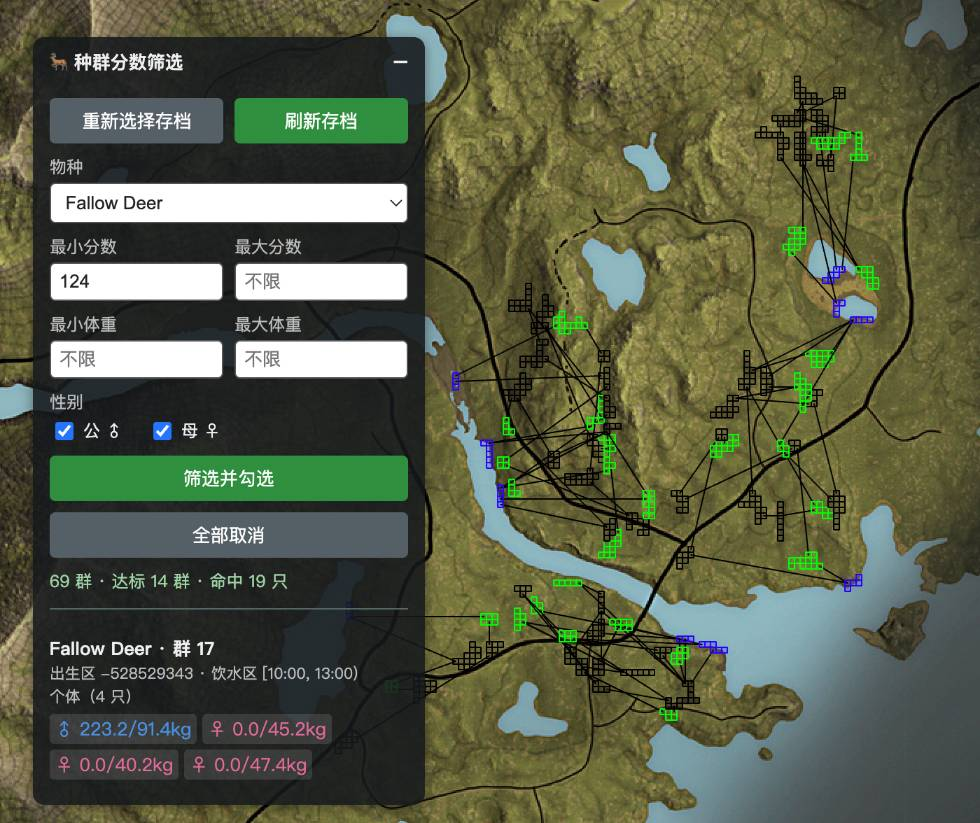
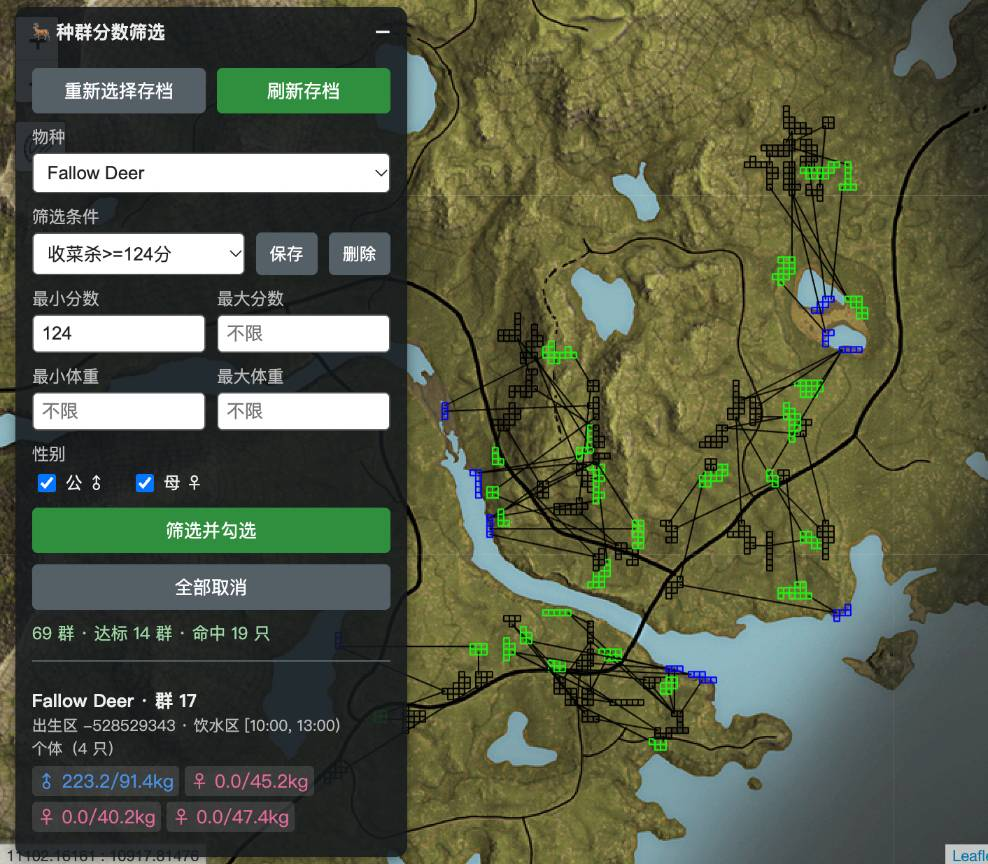
新增筛选条件预设功能

diff --git a/cotw-population-filter.user.js b/cotw-population-filter.user.js
@@ -1,8 +1,8 @@
 // ==UserScript==
 // @name         DECA COTW 地图 · 种群分数筛选
 // @namespace    cotw-kedior
-// @version      1.5.0
-// @description  按物种、分数、体重、性别筛选动物兽群，支持个体分数与手动刷新存档
+// @version      1.6.0
+// @description  按物种、分数、体重、性别筛选动物兽群，支持个体分数、筛选条件预设与手动刷新存档
 // @match        https://mathartbang.com/deca/hp/map.html*
 // @grant        none
 // @run-at       document-idle
@@ -305,6 +305,35 @@
             margin: 0; font-size: 12px; color: #eee;
         }
         #cotw-filter-body .cotw-genders input { width: auto; }
+        #cotw-filter-body .cotw-preset-row { display: flex; gap: 8px; }
+        #cotw-filter-body .cotw-preset-row select { flex: 1; min-width: 0; width: auto; }
+        #cotw-filter-body .cotw-preset-row button {
+            width: auto; flex: none; margin-top: 0; padding: 7px 10px; font-size: 12px;
+        }
+        .cotw-preset-dialog {
+            position: absolute; inset: 0; z-index: 10; box-sizing: border-box;
+            display: flex; align-items: center; justify-content: center; padding: 12px;
+            background: rgba(0, 0, 0, 0.6); border-radius: 8px; user-select: text;
+        }
+        .cotw-preset-dialog[hidden] { display: none; }
+        .cotw-dialog-card {
+            width: 100%; padding: 10px; border: 1px solid #556; border-radius: 6px;
+            background: #1b2026;
+        }
+        .cotw-dialog-title { margin-bottom: 6px; font-weight: 600; }
+        .cotw-dialog-card input {
+            width: 100%; box-sizing: border-box; padding: 5px 6px;
+            border: 1px solid #555; border-radius: 4px; background: #fff; color: #222;
+            font-size: 13px;
+        }
+        .cotw-dialog-error { min-height: 1.2em; margin-top: 4px; font-size: 12px; color: #ff8f8f; }
+        .cotw-dialog-actions { display: flex; gap: 8px; margin-top: 2px; }
+        .cotw-dialog-actions button {
+            flex: 1; width: auto; margin-top: 0; padding: 7px 0; border: 0; border-radius: 4px;
+            background: #2f8f3e; color: #fff; font-size: 13px; cursor: pointer;
+        }
+        .cotw-dialog-actions button.cotw-secondary { background: #555f66; }
+        .cotw-dialog-actions button:hover { filter: brightness(1.12); }
         #cotw-status { margin-top: 8px; font-size: 12px; color: #9fd3a4; min-height: 1.2em; word-break: break-all; }
         #cotw-area-info { margin-top: 10px; padding-top: 8px; border-top: 1px solid #566; }
         #cotw-area-results { max-height: 220px; overflow-y: auto; margin-top: 4px; user-select: text; }
@@ -337,6 +366,12 @@
             </div>
             <label>物种</label>
             <select id="cotw-species"></select>
+            <label>筛选条件</label>
+            <div class="cotw-preset-row">
+                <select id="cotw-preset"></select>
+                <button id="cotw-preset-save" class="cotw-secondary">保存</button>
+                <button id="cotw-preset-delete" class="cotw-secondary">删除</button>
+            </div>
             <div class="cotw-range">
                 <div><label>最小分数</label><input id="cotw-min" type="number" step="0.1" placeholder="不限"></div>
                 <div><label>最大分数</label><input id="cotw-max" type="number" step="0.1" placeholder="不限"></div>
@@ -357,12 +392,31 @@
                 <div id="cotw-area-results"></div>
             </div>
         </div>
+        <div id="cotw-preset-dialog" class="cotw-preset-dialog" hidden>
+            <div class="cotw-dialog-card">
+                <div class="cotw-dialog-title">保存筛选条件</div>
+                <input id="cotw-preset-name" type="text" maxlength="20" placeholder="条件名称">
+                <div id="cotw-preset-error" class="cotw-dialog-error"></div>
+                <div class="cotw-dialog-actions">
+                    <button id="cotw-preset-cancel" class="cotw-secondary">取消</button>
+                    <button id="cotw-preset-confirm">保存</button>
+                </div>
+            </div>
+        </div>
     `;
   document.body.appendChild(panel);
 
   const header = $("#cotw-filter-header", panel);
   const toggle = $("#cotw-filter-toggle", panel);
   const selSpecies = $("#cotw-species", panel);
+  const selPreset = $("#cotw-preset", panel);
+  const btnSavePreset = $("#cotw-preset-save", panel);
+  const btnDeletePreset = $("#cotw-preset-delete", panel);
+  const presetDialog = $("#cotw-preset-dialog", panel);
+  const inpPresetName = $("#cotw-preset-name", panel);
+  const presetError = $("#cotw-preset-error", panel);
+  const btnPresetCancel = $("#cotw-preset-cancel", panel);
+  const btnPresetConfirm = $("#cotw-preset-confirm", panel);
   const inpMin = $("#cotw-min", panel);
   const inpMax = $("#cotw-max", panel);
   const inpWeightMin = $("#cotw-weight-min", panel);
@@ -469,6 +523,149 @@
       testFallback: (maxScore) =>
         !hasWeightRange && inRange(maxScore, scoreMin, scoreMax),
     };
+  }
+
+  // —— 筛选条件预设 ——
+  // 只存四个数值框和性别，物种不进预设；套用预设只替换数值，不触发勾选。
+
+  const PRESET_STORAGE_KEY = "cotw-filter-presets";
+  let presets = [];
+
+  const finiteOrNull = (value) =>
+    typeof value === "number" && Number.isFinite(value) ? value : null;
+
+  function normalizePreset(raw) {
+    if (!raw || typeof raw !== "object") return null;
+    const name = typeof raw.name === "string" ? raw.name.trim() : "";
+    if (!name) return null;
+    return {
+      name,
+      scoreMin: finiteOrNull(raw.scoreMin),
+      scoreMax: finiteOrNull(raw.scoreMax),
+      weightMin: finiteOrNull(raw.weightMin),
+      weightMax: finiteOrNull(raw.weightMax),
+      male: raw.male !== false,
+      female: raw.female !== false,
+    };
+  }
+
+  function loadPresets() {
+    try {
+      const parsed = JSON.parse(
+        localStorage.getItem(PRESET_STORAGE_KEY) ?? "[]",
+      );
+      if (!Array.isArray(parsed)) return [];
+      return parsed.map(normalizePreset).filter(Boolean);
+    } catch (error) {
+      console.warn("[COTW 种群分数筛选] 无法读取保存的筛选条件", error);
+      return [];
+    }
+  }
+
+  function persistPresets() {
+    try {
+      localStorage.setItem(PRESET_STORAGE_KEY, JSON.stringify(presets));
+    } catch (error) {
+      console.warn("[COTW 种群分数筛选] 无法保存筛选条件", error);
+    }
+  }
+
+  // 当前面板上的四项条件，不含物种
+  function currentConditions() {
+    return {
+      scoreMin: finiteOrNull(boundValue(inpMin)),
+      scoreMax: finiteOrNull(boundValue(inpMax)),
+      weightMin: finiteOrNull(boundValue(inpWeightMin)),
+      weightMax: finiteOrNull(boundValue(inpWeightMax)),
+      male: chkMale.checked,
+      female: chkFemale.checked,
+    };
+  }
+
+  const fillConditionInput = (inp, value) => {
+    inp.value = value === null || value === undefined ? "" : String(value);
+  };
+
+  // 只替换数值和性别，不勾选也不取消；状态栏跟着刷新预览
+  function applyPreset(preset) {
+    fillConditionInput(inpMin, preset.scoreMin);
+    fillConditionInput(inpMax, preset.scoreMax);
+    fillConditionInput(inpWeightMin, preset.weightMin);
+    fillConditionInput(inpWeightMax, preset.weightMax);
+    chkMale.checked = preset.male;
+    chkFemale.checked = preset.female;
+    updatePreview();
+  }
+
+  function refreshPresetOptions(selectName = null) {
+    const previous = selectName ?? selPreset.value;
+    selPreset.replaceChildren();
+
+    const placeholder = document.createElement("option");
+    placeholder.value = "";
+    placeholder.textContent = presets.length
+      ? "选择已保存条件"
+      : "暂无保存的条件";
+    selPreset.appendChild(placeholder);
+
+    for (const preset of presets) {
+      const option = document.createElement("option");
+      option.value = preset.name;
+      option.textContent = preset.name;
+      selPreset.appendChild(option);
+    }
+    selPreset.value = presets.some((preset) => preset.name === previous)
+      ? previous
+      : "";
+    updateActionControls();
+  }
+
+  // 手动改动任意条件后，下拉框退回默认项，避免显示与实际数值不符的预设名
+  function resetPresetSelection() {
+    if (!selPreset.value) return;
+    selPreset.value = "";
+    updateActionControls();
+  }
+
+  function openPresetDialog() {
+    if (operationInFlight) return;
+    inpPresetName.value = selPreset.value;
+    presetError.textContent = "";
+    presetDialog.hidden = false;
+    inpPresetName.focus();
+    inpPresetName.select();
+  }
+
+  function closePresetDialog() {
+    presetDialog.hidden = true;
+    presetError.textContent = "";
+  }
+
+  function confirmPresetSave() {
+    const name = inpPresetName.value.trim();
+    if (!name) {
+      presetError.textContent = "请输入条件名称";
+      return;
+    }
+    if (presets.some((preset) => preset.name === name)) {
+      presetError.textContent = "已存在同名条件，请换一个名字";
+      return;
+    }
+
+    presets.push({ name, ...currentConditions() });
+    persistPresets();
+    refreshPresetOptions(name);
+    closePresetDialog();
+    status.textContent = `已保存条件：${name}`;
+  }
+
+  function deleteSelectedPreset() {
+    const name = selPreset.value;
+    if (!name) return;
+    presets = presets.filter((preset) => preset.name !== name);
+    persistPresets();
+    refreshPresetOptions("");
+    status.textContent = `已删除条件：${name}`;
   }
 
   // —— 地图点击区域的个体信息 ——
@@ -702,7 +899,8 @@
     const cacheByMapKey = new Map();
 
     const completed = await runBatches(inputs, (cb) => {
-      if (token !== rebuildToken || version !== individualsVersion) return false;
+      if (token !== rebuildToken || version !== individualsVersion)
+        return false;
       const li = cb.closest("li");
       const name = nameOfGroup(cb);
       const individuals = name ? lookupIndividuals(name, cb.dataset) : null;
@@ -834,6 +1032,7 @@
     operationInFlight = true;
     updateActionControls();
 
+    let added = 0;
     try {
       const completed = await runBatches(groups, (group, index) => {
         if (groupCache !== sourceCache || !group.cb.isConnected) return false;
@@ -841,7 +1040,11 @@
           ? group.individuals.some(filter.test)
           : !filter.needsIndividuals &&
             filter.testFallback(parseScore(group.cb));
-        setChecked(group.cb, want);
+        // 只追加勾选，不取消任何已有勾选
+        if (want && !group.cb.checked) {
+          setChecked(group.cb, true);
+          added += 1;
+        }
         if (index % 16 === 0)
           status.textContent = `筛选中 ${index}/${groups.length}`;
       });
@@ -861,7 +1064,7 @@
         $$("ul.nested", popRow).forEach((list) => list.classList.add("active"));
       }
 
-      status.textContent = summaryText(summary);
+      status.textContent = `${summaryText(summary)} · 新增勾选 ${added} 群`;
     } catch (error) {
       status.textContent = "筛选失败";
       console.error("[COTW 种群分数筛选] 应用筛选失败", error);
@@ -963,6 +1166,9 @@
     inpWeightMax.disabled = operationInFlight;
     chkMale.disabled = operationInFlight;
     chkFemale.disabled = operationInFlight;
+    selPreset.disabled = operationInFlight || presets.length === 0;
+    btnSavePreset.disabled = operationInFlight;
+    btnDeletePreset.disabled = operationInFlight || !selPreset.value;
   }
 
   function pageSaveMapping() {
@@ -1144,11 +1350,36 @@
   btnClear.addEventListener("click", clearAll);
   selSpecies.addEventListener("change", updatePreview);
   [inpMin, inpMax, inpWeightMin, inpWeightMax].forEach((input) =>
-    input.addEventListener("input", updatePreview),
+    input.addEventListener("input", () => {
+      resetPresetSelection();
+      updatePreview();
+    }),
   );
   [chkMale, chkFemale].forEach((checkbox) =>
-    checkbox.addEventListener("change", updatePreview),
+    checkbox.addEventListener("change", () => {
+      resetPresetSelection();
+      updatePreview();
+    }),
   );
+
+  selPreset.addEventListener("change", () => {
+    const preset = presets.find((item) => item.name === selPreset.value);
+    if (preset) applyPreset(preset);
+    updateActionControls();
+  });
+  btnSavePreset.addEventListener("click", openPresetDialog);
+  btnDeletePreset.addEventListener("click", deleteSelectedPreset);
+  btnPresetCancel.addEventListener("click", closePresetDialog);
+  btnPresetConfirm.addEventListener("click", confirmPresetSave);
+  inpPresetName.addEventListener("keydown", (event) => {
+    if (event.key === "Enter") {
+      event.preventDefault();
+      confirmPresetSave();
+    } else if (event.key === "Escape") {
+      event.preventDefault();
+      closePresetDialog();
+    }
+  });
 
   // —— 树重建（拖入存档 / 切换地图）后重建索引 ——
 
@@ -1265,6 +1496,10 @@
       subtree: true,
     });
   }
+
+  // 恢复上次保存的筛选条件预设
+  presets = loadPresets();
+  refreshPresetOptions();
 
   hookSaveParser();
   void onTreeChanged();

diff --git a/README.md b/README.md
@@ -24,6 +24,7 @@
 | 分数区间筛选   | 按物种和目标分数范围勾选包含命中个体的兽群。                    |
 | 体重筛选       | 按体重范围勾选包含命中个体的兽群。                              |
 | 性别筛选       | 可只看公或只看母。                                              |
+| 条件预设       | 保存常用筛选条件，点击可快速切换。                              |
 | 兽群个体分数   | 在种群树中查看兽群内个体分数。                                  |
 | 个体性别体重   | 在种群树中查看兽群内个体的性别和体重。                          |
 | 地图区域分数   | 点击地图区域，查看命中兽群及其个体分数。                        |
@@ -37,18 +38,18 @@
 
 ## 使用方法
 
-1. 在“物种”下拉框中选择要处理的物种。
-2. 输入最小分数和/或最大分数。分数边界**包含在范围内**；留空表示该方向不限制。
-3. 输入最小体重和/或最大体重。体重边界**包含在范围内**；留空表示该方向不限制。
-4. 用“公 / 母”两个复选框选择性别；两个都勾或都不勾都表示不限性别。
-5. 点击“筛选并勾选”。同时满足分数、体重和性别条件的个体所在兽群会被勾选，不符合条件的该物种兽群会被取消勾选；其他物种的勾选状态不变。
-6. 在地图上查看已勾选兽群对应的位置。需要查看某个兽群的个体性别、分数和体重时，展开种群树中该兽群旁的箭头。
-7. 点击地图上的种群区域后，浮窗底部会列出该点击位置命中的兽群、出生区、区域类型和时间段，以及群内个体分数。
-8. 点击“全部取消”可以取消种群树中的所有勾选，不限于当前选择的物种。
-9. 点击“选择存档文件”选择一个 `animal_population_*` 文件；之后点击“刷新存档”手动更新，或点击“重新选择存档”切换文件。
-10. 页面重新打开后会恢复已选文件；如需授权，点击“刷新存档”并按浏览器提示操作。
-
-面板标题栏可以拖动；单击标题栏可折叠或展开面板。
+1. 点击“选择存档文件”选择一个 `animal_population_*` 文件；之后点击“刷新存档”手动更新，或点击“重新选择存档”切换文件。
+2. 在“物种”下拉框中选择要处理的物种。
+3. 输入最小分数和/或最大分数。分数边界**包含在范围内**；留空表示该方向不限制。
+4. 输入最小体重和/或最大体重。体重边界**包含在范围内**；留空表示该方向不限制。
+5. 用“公 / 母”两个复选框选择性别；两个都勾或都不勾都表示不限性别。
+6. 点击“筛选并勾选”。同时满足分数、体重和性别条件的个体所在兽群会被勾选，已经在勾选状态不会取消任何已有勾选。
+7. 条件设好后点“筛选条件”旁的“保存”，命名后即可存成预设；之后在该下拉框里选择即可套用。
+8. 在地图上查看已勾选兽群对应的位置。需要查看某个兽群的个体性别、分数和体重时，展开种群树中该兽群旁的箭头。
+9. 点击地图上的种群区域后，浮窗底部会列出该点击位置命中的兽群、出生区、区域类型和时间段，以及群内个体分数。
+10. 点击“全部取消”可以取消种群树中的所有勾选，不限于当前选择的物种。
+11. 页面重新打开后会恢复已选文件；如需授权，点击“刷新存档”并按浏览器提示操作。
+12. 面板标题栏可以拖动；单击标题栏可折叠或展开面板。
 
 ## 使用提醒
 
